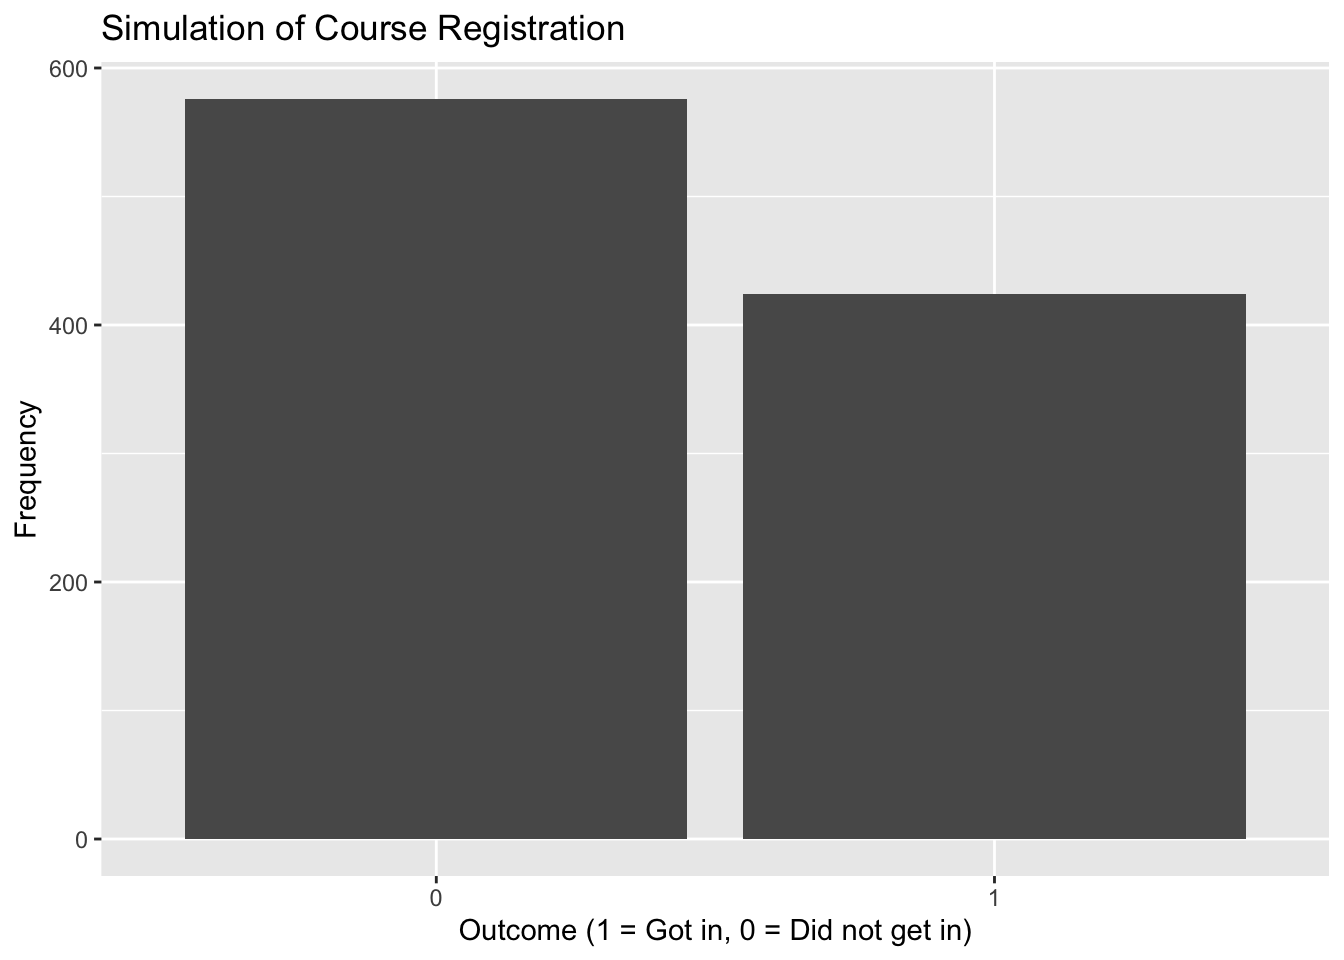
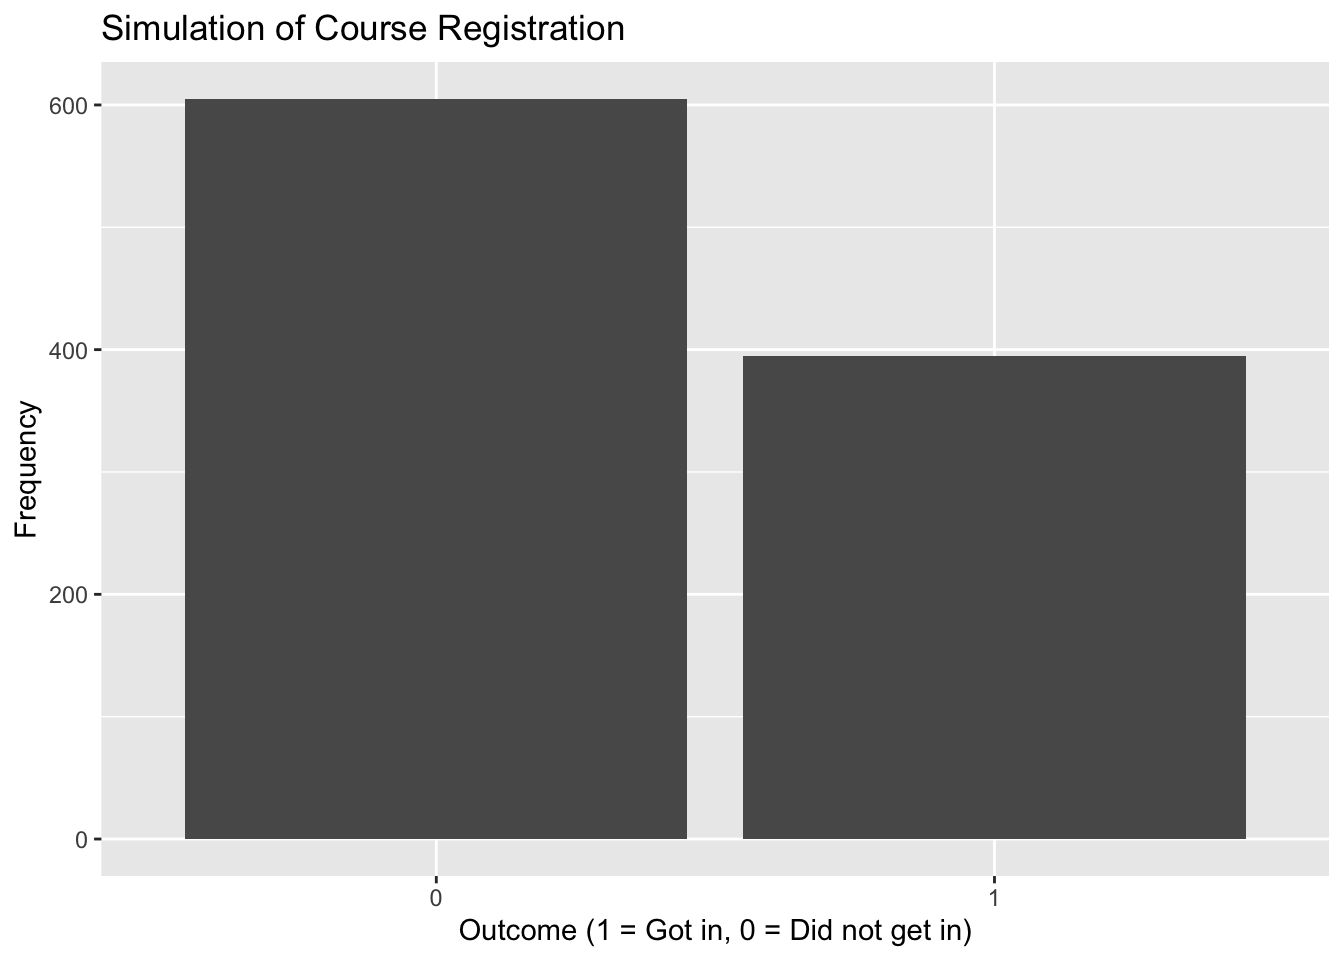
..

diff --git a/docs/Simulation.html b/docs/Simulation.html
@@ -147,6 +147,10 @@ pre > code.sourceCode > span > a:first-child::before { text-decoration: underlin
     <a class="dropdown-item" href="./Simulation.html">
  <span class="dropdown-text">Simulation</span></a>
   </li>  
+        <li>
+    <a class="dropdown-item" href="./SQL.html">
+ <span class="dropdown-text">SQL</span></a>
+  </li>  
     </ul>
   </li>
 </ul>
@@ -216,7 +220,7 @@ pre > code.sourceCode > span > a:first-child::before { text-decoration: underlin
 <span id="cb2-12"><a href="#cb2-12" aria-hidden="true" tabindex="-1"></a></span>
 <span id="cb2-13"><a href="#cb2-13" aria-hidden="true" tabindex="-1"></a><span class="fu">print</span>(<span class="fu">paste</span>(<span class="st">"Probability that student #1 gets a spot:"</span>, probability))</span></code><button title="Copy to Clipboard" class="code-copy-button"><i class="bi"></i></button></pre></div>
 <div class="cell-output cell-output-stdout">
-<pre><code>[1] "Probability that student #1 gets a spot: 0.424"</code></pre>
+<pre><code>[1] "Probability that student #1 gets a spot: 0.395"</code></pre>
 </div>
 </div>
 <p>After a few trials of 1000 times simulations, the general probability value we are getting are between 0.38 ~ 0.42, which basically concluded that for this course registration simulation with 50 students trying to get in a 20 spot class, the probability of getting in is around 0.4.</p>

diff --git a/docs/index.html b/docs/index.html
@@ -113,6 +113,10 @@ ul.task-list li input[type="checkbox"] {
     <a class="dropdown-item" href="./Simulation.html">
  <span class="dropdown-text">Simulation</span></a>
   </li>  
+        <li>
+    <a class="dropdown-item" href="./SQL.html">
+ <span class="dropdown-text">SQL</span></a>
+  </li>  
     </ul>
   </li>
 </ul>
@@ -164,7 +168,7 @@ ul.task-list li input[type="checkbox"] {
 <h1>Contact information</h1>
 <p><a href="https://www.linkedin.com/in/jessicalinyongjie/">LinkedIn</a></p>
 <p><a href="https://github.com/JessicaLin92/jessicalin92.github.io/blob/main/docs/index.html">GitHub</a></p>
-<p>(Email: jeslin@students.pitzer.edu)</p>
+<p><a href="jeslin@students.pitzer.edu">Email: jeslin@students.pitzer.edu</a></p>
 
 
 </section>

diff --git a/docs/Text-Analysis.html b/docs/Text-Analysis.html
@@ -147,6 +147,10 @@ pre > code.sourceCode > span > a:first-child::before { text-decoration: underlin
     <a class="dropdown-item" href="./Simulation.html">
  <span class="dropdown-text">Simulation</span></a>
   </li>  
+        <li>
+    <a class="dropdown-item" href="./SQL.html">
+ <span class="dropdown-text">SQL</span></a>
+  </li>  
     </ul>
   </li>
 </ul>

diff --git a/docs/about.html b/docs/about.html
@@ -113,6 +113,10 @@ ul.task-list li input[type="checkbox"] {
     <a class="dropdown-item" href="./Simulation.html">
  <span class="dropdown-text">Simulation</span></a>
   </li>  
+        <li>
+    <a class="dropdown-item" href="./SQL.html">
+ <span class="dropdown-text">SQL</span></a>
+  </li>  
     </ul>
   </li>
 </ul>
